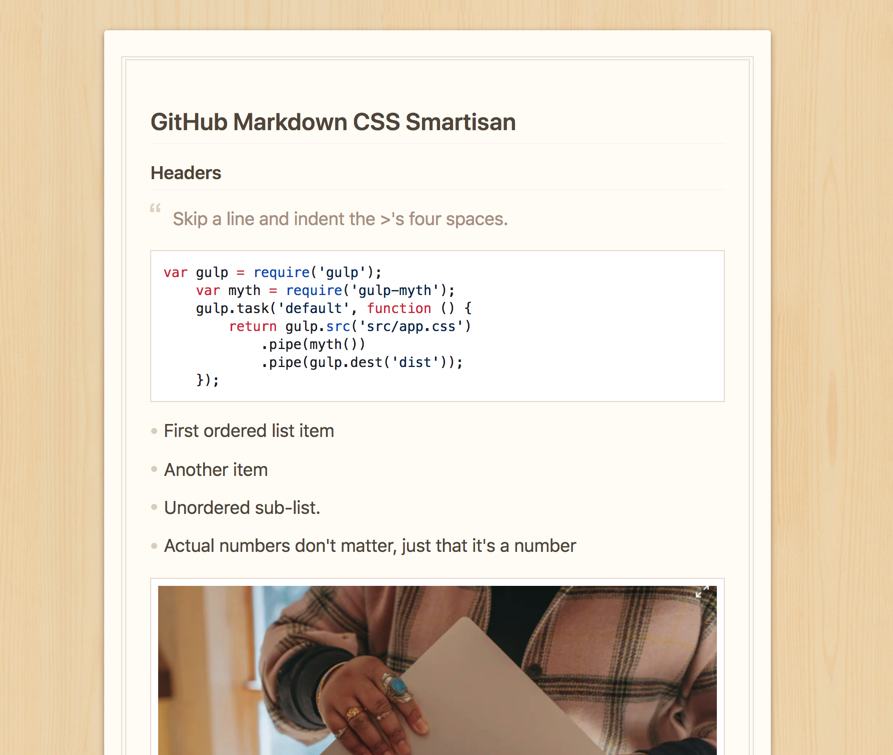
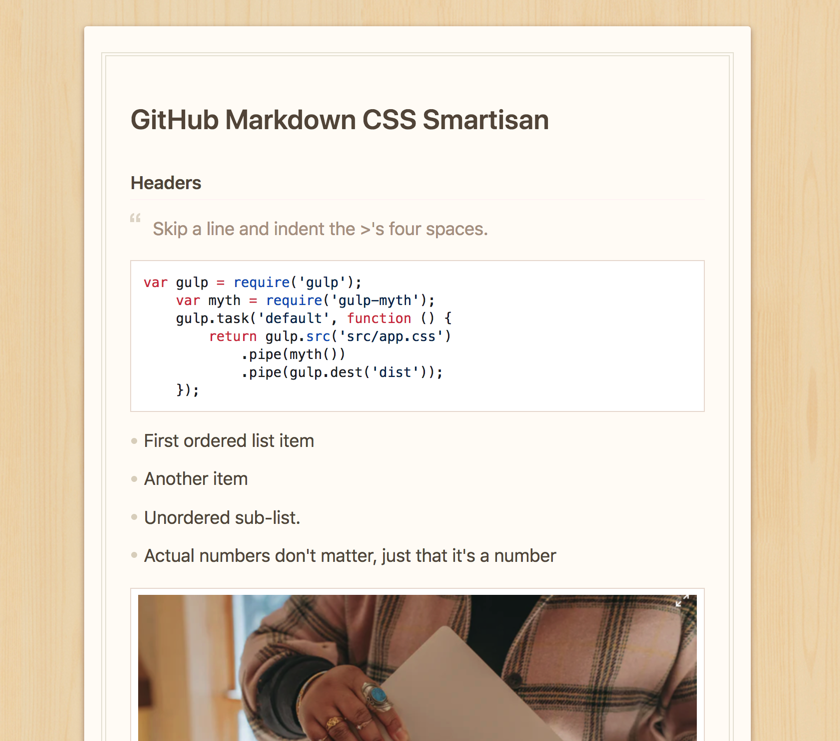
📃docs(Demo): img url replace

Changed region(s): [[0.0929, 0.031, 0.8976, 1.0], [0.1548, 0.2173, 0.5881, 0.5277], [0.1548, 0.1242, 0.65, 0.1862]]

diff --git a/github-markdown.css b/github-markdown.css
@@ -726,14 +726,18 @@ body {
   line-height: 1.25;
 }
 
-.markdown-body h1 {
-  font-size: 2em;
-}
+
 
 .markdown-body h1,
 .markdown-body h2 {
   padding-bottom: .3em;
   border-bottom: 1px solid #fff6f6;
+}
+
+.markdown-body h1 {
+  font-size: 2.3em;
+  margin-bottom: 1em;
+  border: none;
 }
 
 .markdown-body h2 {
